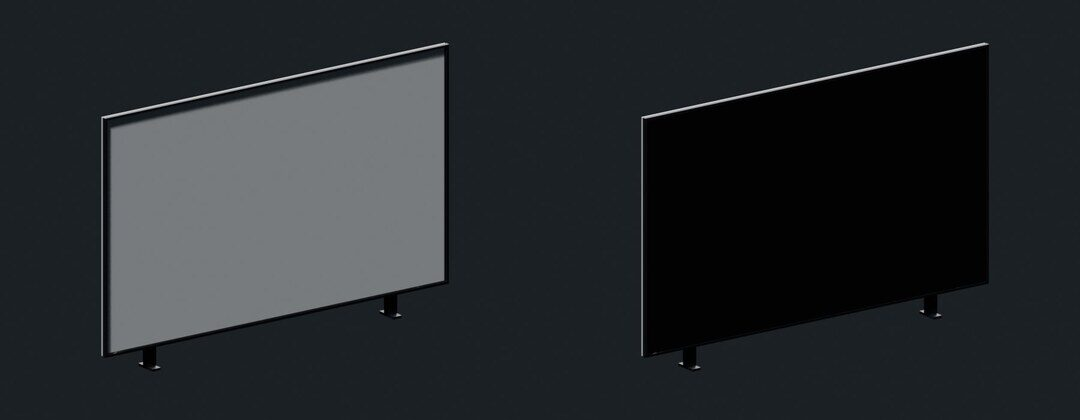
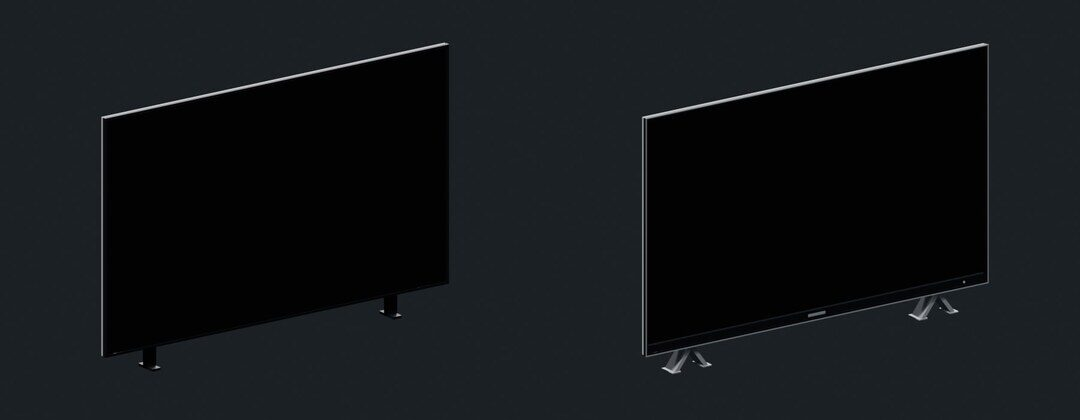
TV de frente se reconoce como TV: bisel con filete metálico, mentón con LED y pie en "Λ" (#219-5)
Por tipo, sin marca ni modelo. carcasas.glb 30 KiB.

diff --git a/assets/models/blender/piezas.py b/assets/models/blender/piezas.py
@@ -1522,24 +1522,42 @@ def carcasa_split():
 
 
 def carcasa_televisor():
-    """Carcasa de televisor: marco frontal con la pantalla (vidrio oscuro: así el TV cerrado, de frente, se
-    reconoce como un TV y no como una chapa), tapa trasera con la joroba, rejillas, zona de puertos y patas."""
+    """Carcasa de televisor, de frente se reconoce como un TV (por tipo, sin marca ni modelo): pantalla de
+    vidrio oscuro dentro de un bisel fino con filete metálico, mentón abajo con una placa lisa y el LED de
+    encendido, y pie de dos patas en "V" plateadas. Atrás: la joroba, rejillas y zona de puertos."""
     W, P, H, z0 = 100.0, 6.0, 60.0, 6.0
-    bisel_f = caja((W, 1.2, H), (0, -P / 2 + 0.6, z0 + H / 2), "plastico", bisel=0.2)
-    restar(bisel_f, caja((W - 1.4, 2.0, H - 1.4), (0, -P / 2 + 0.6, z0 + H / 2), mat=None))
-    caja((W - 0.4, 0.6, H - 0.4), (0, -P / 2 + 1.5, z0 + H / 2))
-    caja((W - 1.6, 0.1, H - 1.6), (0, -P / 2 + 0.25, z0 + H / 2), "vidrio")  # la pantalla, de frente
-    caja((3.0, 0.15, 0.5), (0, -P / 2 + 0.2, z0 + 0.35), "metal", bisel=0.05)  # logo/receptor del borde de abajo
+    frente = -P / 2
+    bisel_f = caja((W, 1.2, H), (0, frente + 0.6, z0 + H / 2), "plastico", bisel=0.2)
+    restar(bisel_f, caja((W - 1.4, 2.0, H - 1.4), (0, frente + 0.6, z0 + H / 2), mat=None))
+    caja((W - 0.4, 0.6, H - 0.4), (0, frente + 1.5, z0 + H / 2))
+    # Pantalla: bisel fino arriba y a los costados, mentón más ancho abajo.
+    menton = 3.0
+    caja((W - 1.6, 0.1, H - 0.8 - menton), (0, frente + 0.25, z0 + menton + (H - 0.8 - menton) / 2), "vidrio")
+    caja((W - 1.6, 0.08, menton - 0.8), (0, frente + 0.26, z0 + 0.4 + (menton - 0.8) / 2), "plastico")
+    # Filete metálico alrededor del frente: el contorno del TV se lee aunque la pantalla sea negra.
+    for z in (z0 + 0.12, z0 + H - 0.12):
+        caja((W, 0.08, 0.24), (0, frente - 0.02, z), "metal")
+    for sx in (-1, 1):
+        caja((0.24, 0.08, H), (sx * (W / 2 - 0.12), frente - 0.02, z0 + H / 2), "metal")
+    # Mentón: placa lisa al centro (sin marca) y el LED de encendido a la derecha.
+    caja((5.0, 0.12, 0.7), (0, frente + 0.16, z0 + menton / 2), "metal", bisel=0.05)
+    cilindro(0.28, 0.12, (W / 2 - 7.0, frente + 0.17, z0 + menton / 2), "etiqueta", seg=20, eje="y")
     # La joroba llega casi hasta abajo: ahí van los parlantes y la entrada del cable.
     caja((W - 14.0, P - 1.8, H - 10.0), (0, 0.9, z0 + 0.8 + (H - 10.0) / 2), bisel=1.5)
     for i in range(12):
         caja((0.6, 0.1, 8.0), (-20.0 + i * 1.5, P / 2 + 0.01, z0 + H - 18.0), "ranura")
     caja((12.0, 0.3, 8.0), (W / 2 - 18.0, P / 2 - 0.1, z0 + 16.0), "ranura")
-    # Patas tan profundas como el cuerpo: la profundidad del plano es la del televisor (con patas de 18 cm,
-    # el cuerpo quedaba de 3 cm y la pantalla y las placas se salían por adelante y por atrás).
+    # Pie: dos patas en "V" plateadas, abiertas hacia el piso, tan profundas como el cuerpo (la profundidad
+    # del plano es la del televisor: con patas más profundas que el cuerpo, las piezas se salían).
+    abre = 4.5
+    angulo = math.atan2(abre, z0)
+    largo = math.hypot(abre, z0)
     for sx in (-1, 1):
-        caja((2.5, P, 0.8), (sx * 35.0, 0, 0.4), "plastico", bisel=0.2)
-        caja((2.5, 2.0, z0), (sx * 35.0, 0, z0 / 2 + 0.4), "plastico")
+        x = sx * 36.0
+        for lado in (-1, 1):
+            pata = caja((1.1, P * 0.7, largo), (x + lado * abre / 2, 0, z0 / 2), "metal", bisel=0.15)
+            girar(pata, (0, -lado * angulo, 0))  # la punta de arriba hacia el centro: "Λ"
+            caja((2.4, P * 0.8, 0.35), (x + lado * abre, 0, 0.175), "metal", bisel=0.1)
     return armar("carcasa@televisor", EQUIPOS_TV)
 
 

diff --git a/assets/models/blender/CALIDAD_DEMO.md b/assets/models/blender/CALIDAD_DEMO.md
@@ -147,12 +147,18 @@ En el visor, tamaño iPhone: abierto (antes y después) y despiezado (antes y de
 
 ## Televisor de frente
 
-El TV va parado y de frente a la cámara (B1), así que cerrado se ve el frente de la carcasa, y el frente era una chapa gris: en la prueba real no se reconocía como un TV. Ahora la zona de la pantalla es vidrio oscuro, con el marco y el logo del borde de abajo. Sirve para cualquier TV, con las mismas medidas de antes (no cambia cómo se ajusta). `carcasas.glb`: 29 KiB.
+El TV va parado y de frente a la cámara (B1), así que cerrado se ve el frente de la carcasa. Primero era una chapa gris; con #203 pasó a vidrio oscuro, pero era un rectángulo negro sin nada que lo identificara (#219, punto 5). Ahora se reconoce como un TV, **por tipo y sin marca ni modelo**:
 
-Antes y después (mismo estudio):
+- pantalla de vidrio oscuro dentro de un **bisel fino con filete metálico**;
+- **mentón** abajo, con una placa lisa al centro y el **LED** de encendido a la derecha;
+- **pie de dos patas en "Λ"** plateadas, abiertas hacia el piso, tan profundas como el cuerpo.
+
+Las medidas casi no cambian (66,3 × 6,1 cm, contra 66 × 6,06). `carcasas.glb`: 30 KiB.
+
+Antes (#203) y después, mismo estudio:
 
 ![Carcasa del TV, antes y después](renders/calidad/tv-frente-antes-despues.jpg)
 
-En el visor, tamaño iPhone, cerrado: el TV TCL de la caché (generado) y el TV del lab (esqueleto). El vigía de "3D en negro" no lo toma como falla:
+En el visor, tamaño iPhone, cerrados: el TV TCL 55" de la caché y un Samsung 65" generado con IA simulada (otras medidas y otras piezas). El vigía de "3D en negro" no los toma como falla:
 
-![TV en el visor](renders/calidad/tv-frente-visor.jpg)
+![Dos TV en el visor](renders/calidad/tv-frente-visor.jpg)
